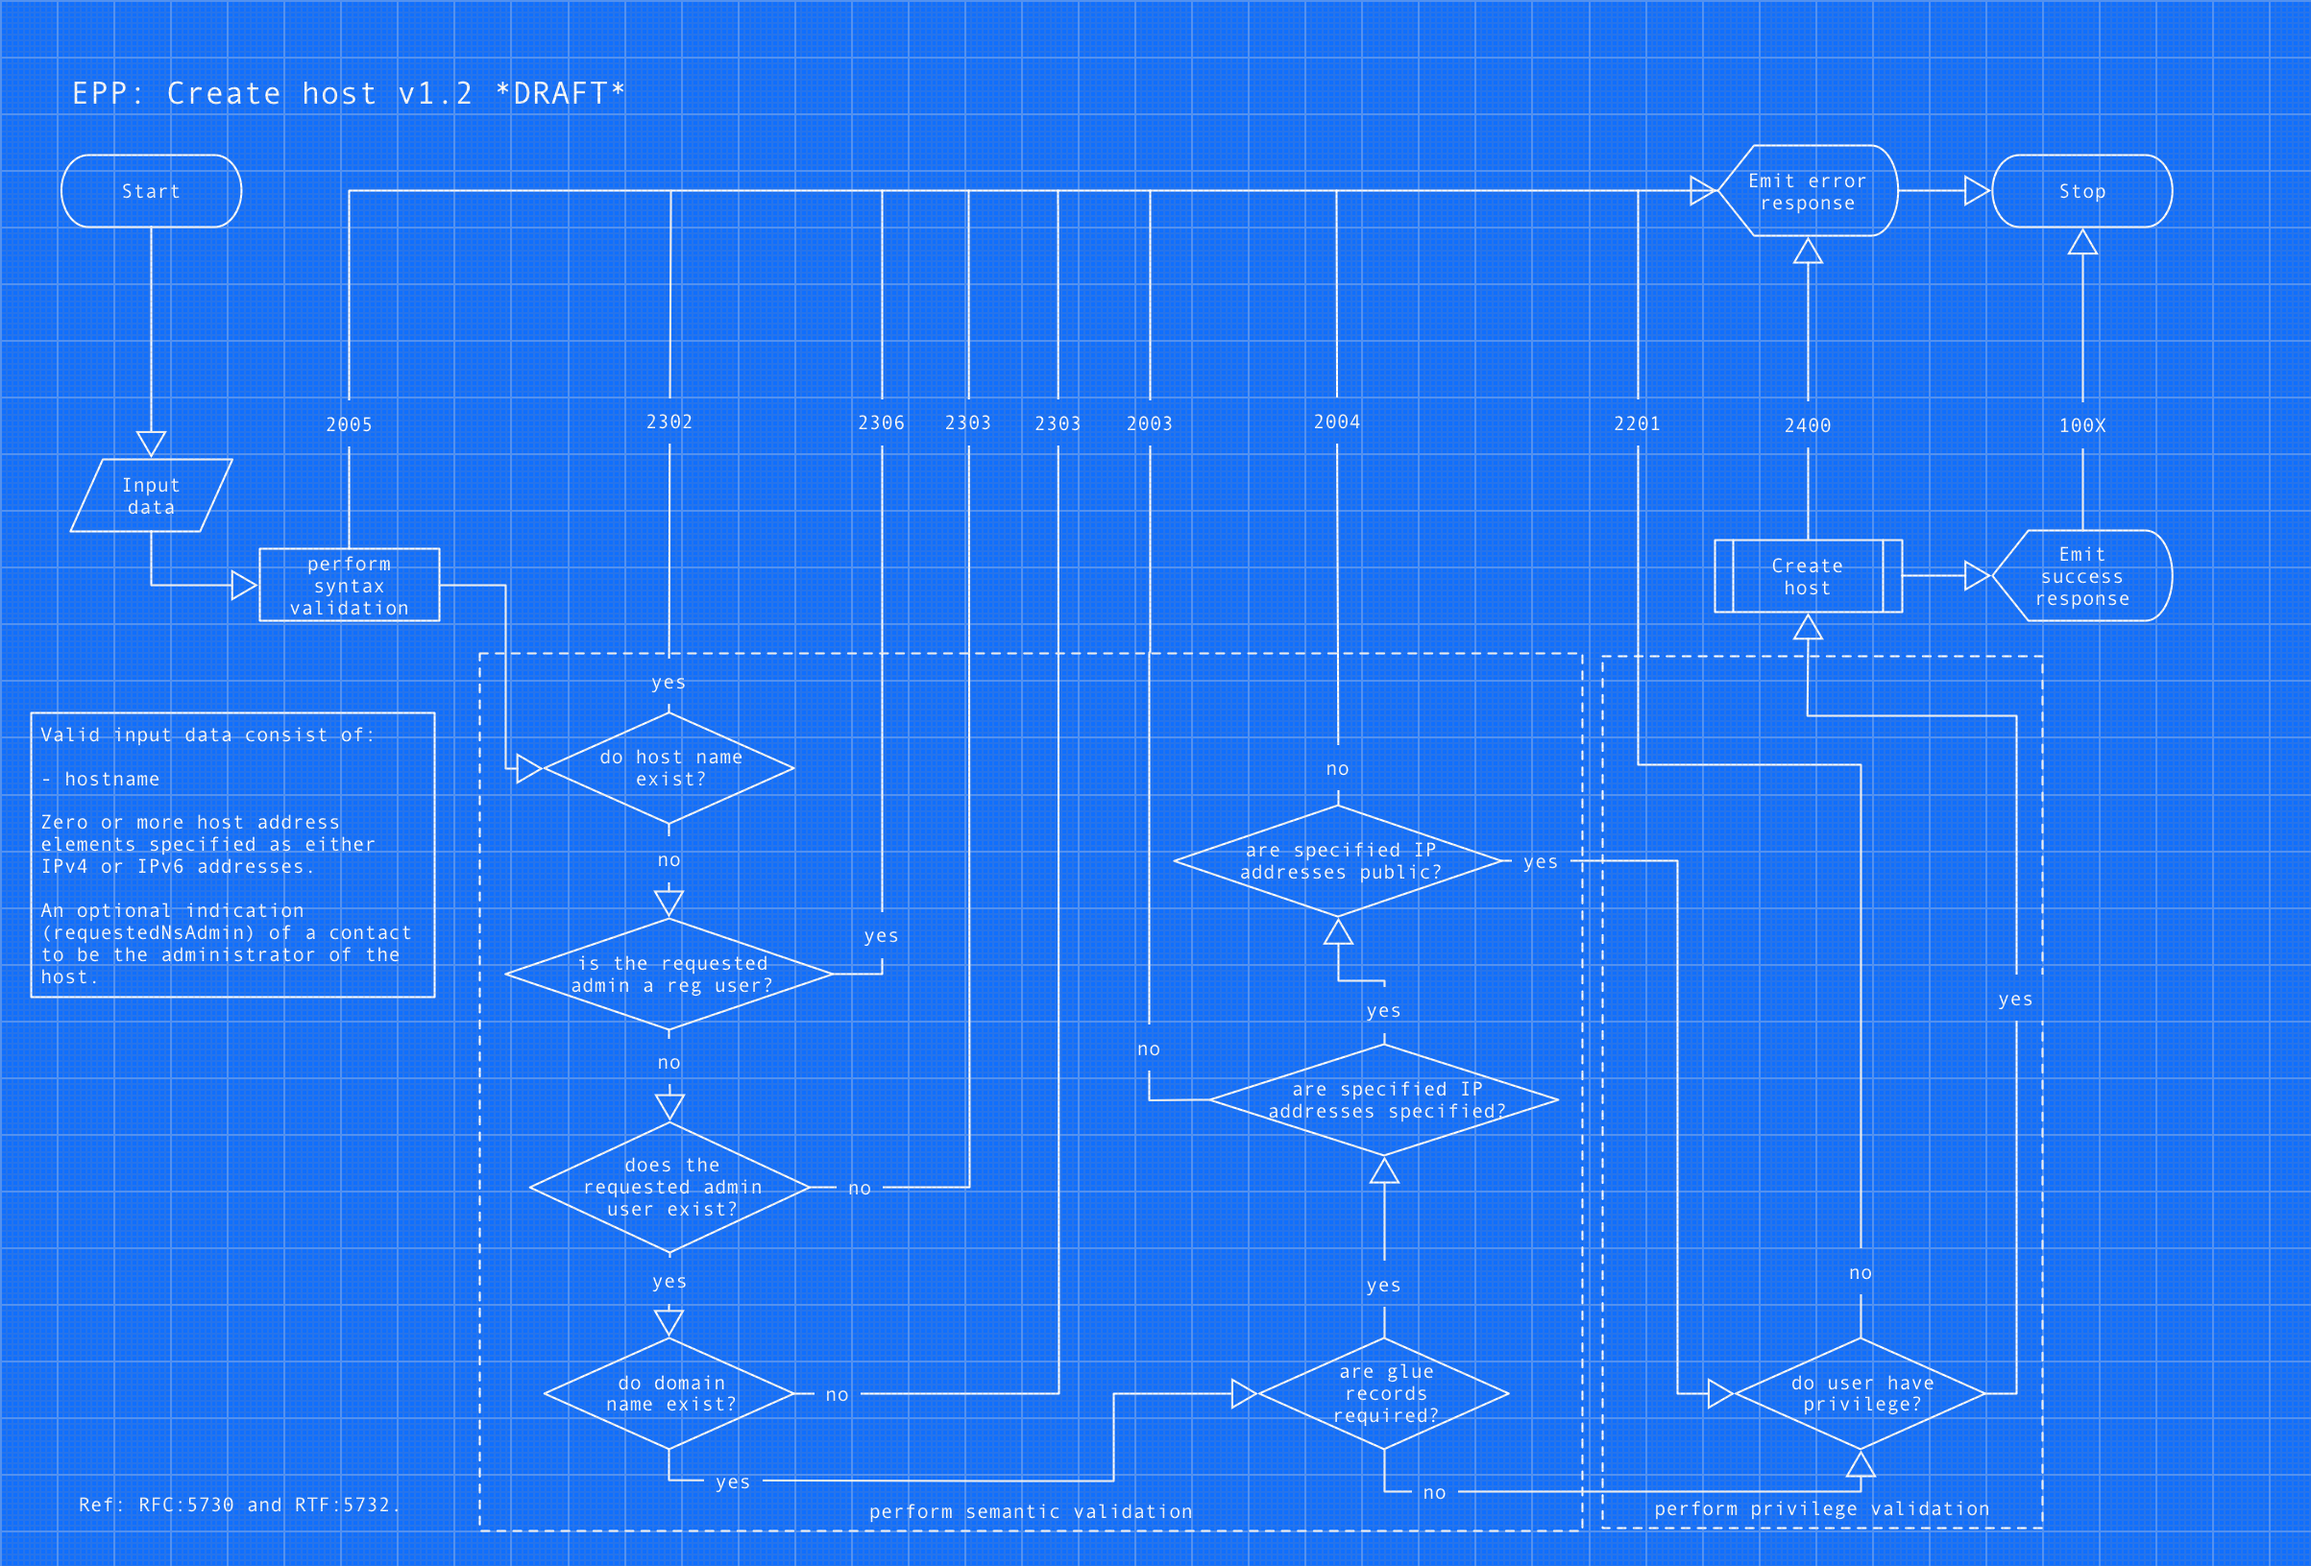
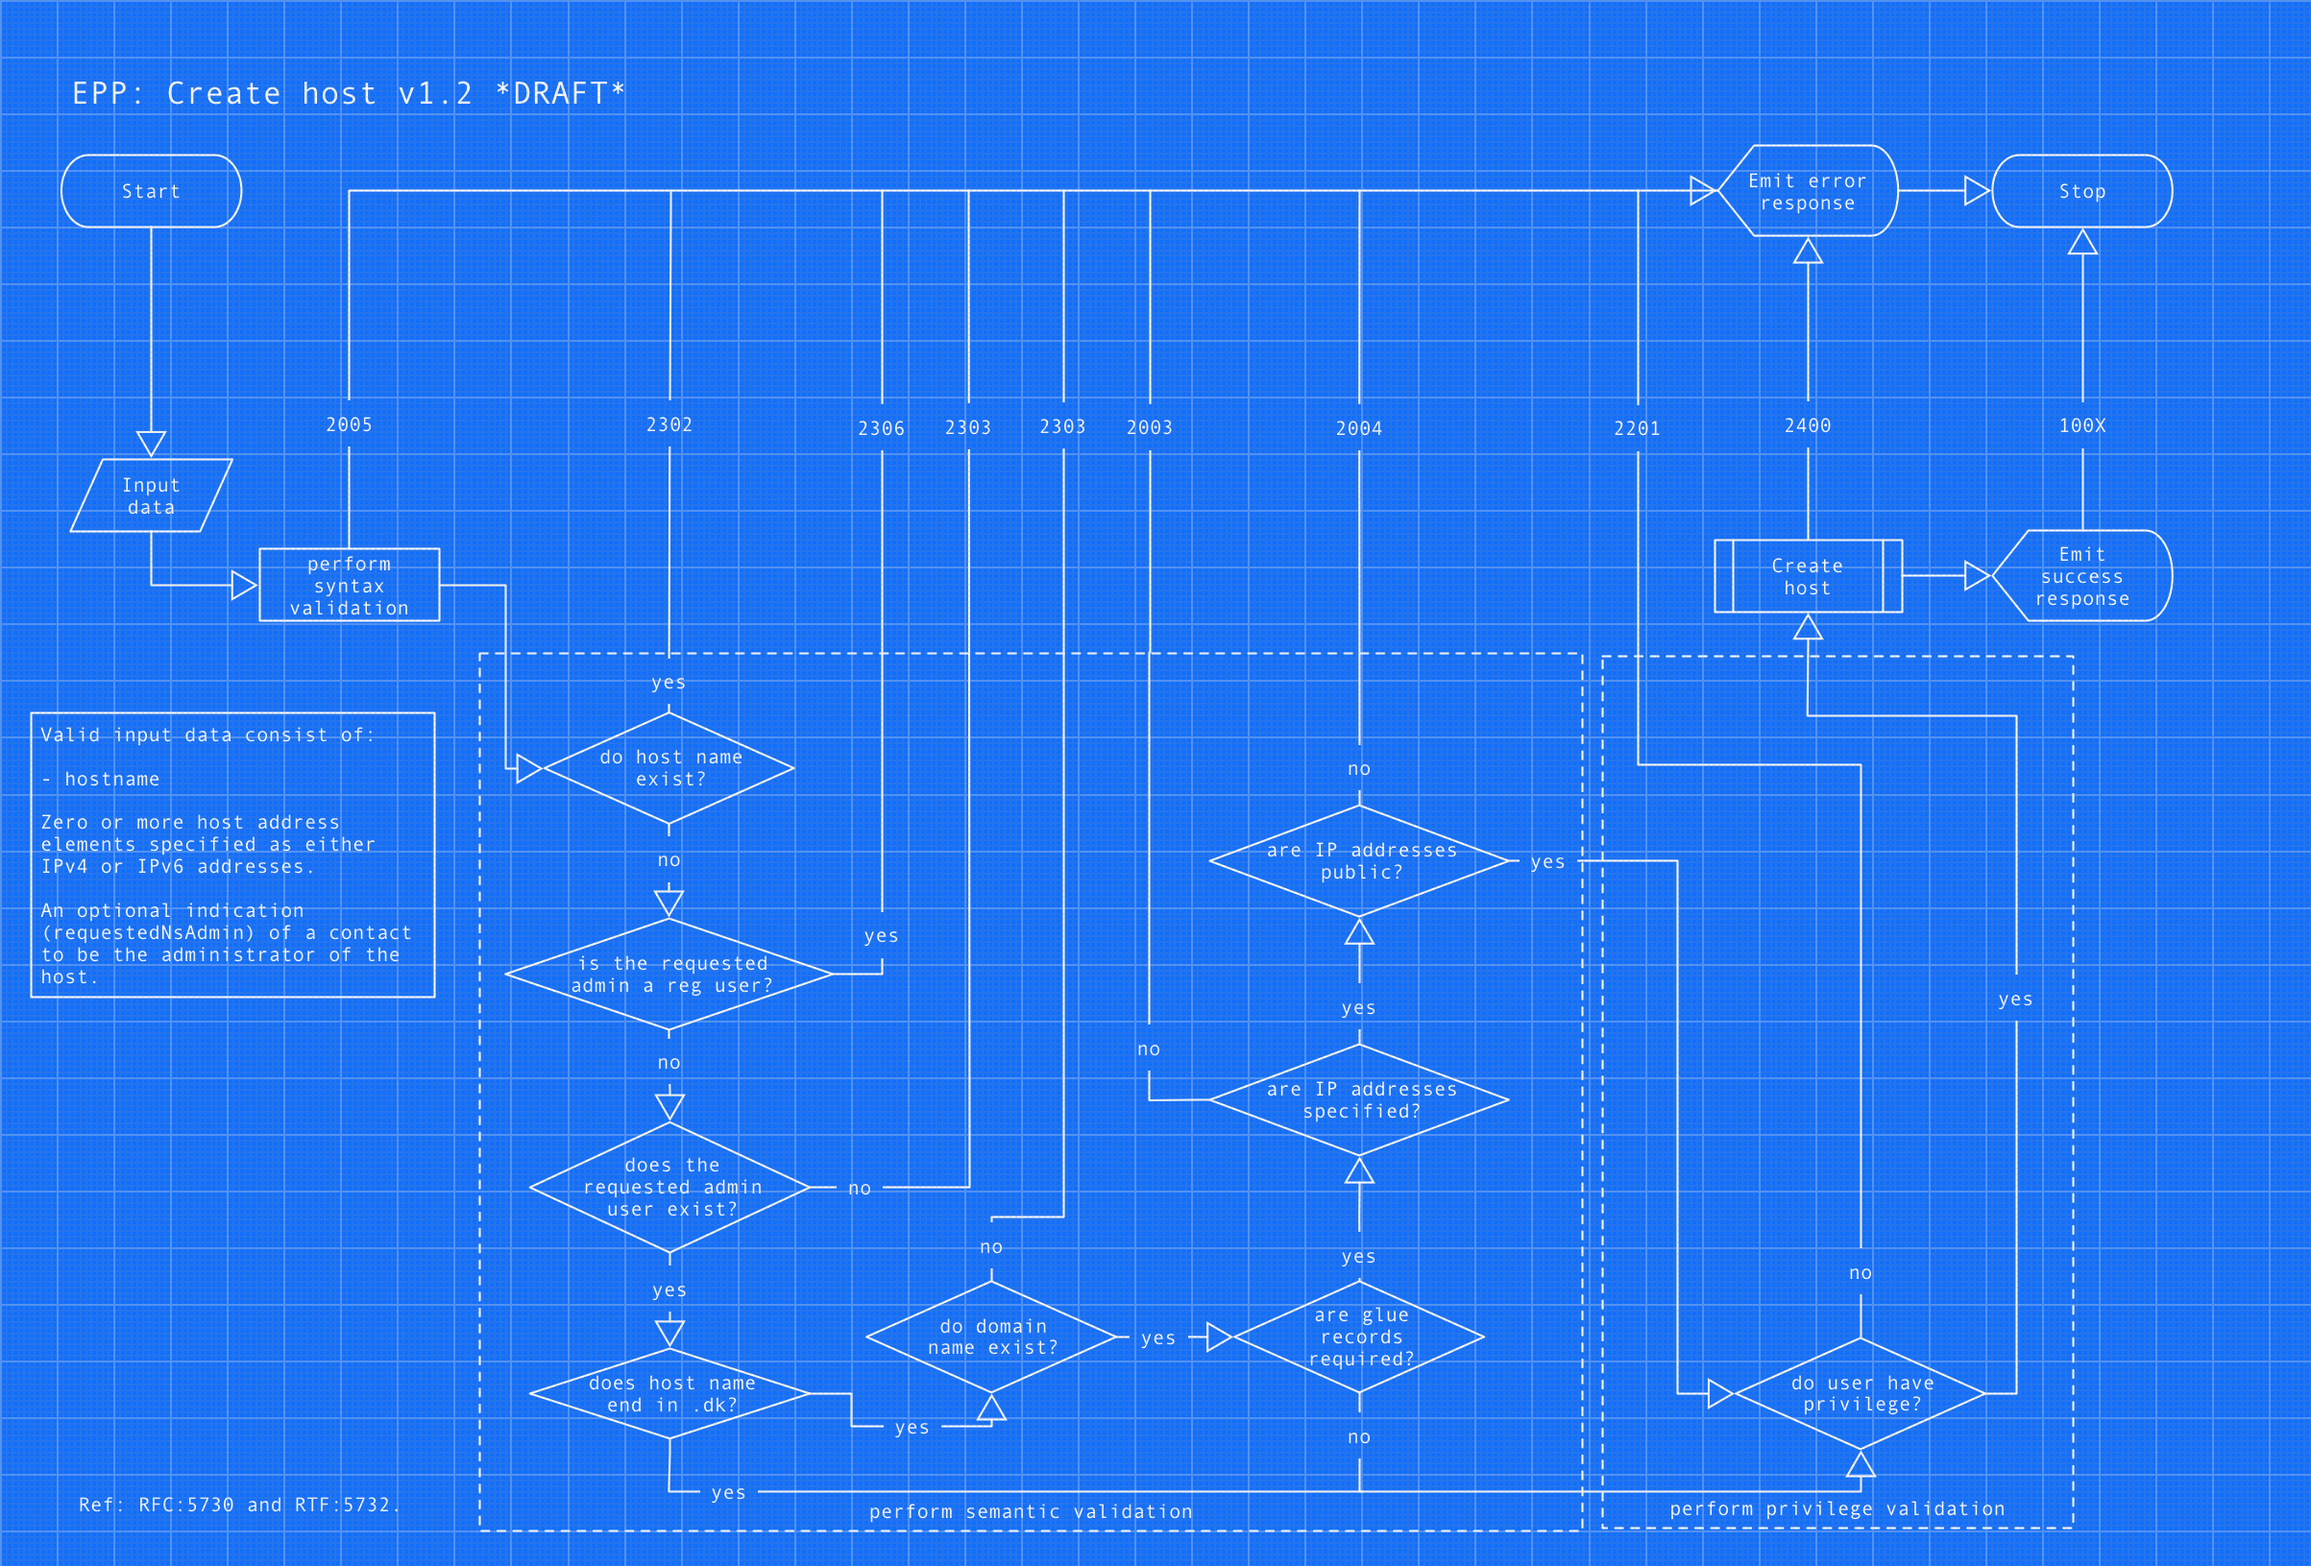
Updated diagram for create host

diff --git a/README.md b/README.md
@@ -989,8 +989,8 @@ The command can be used in two scenarios:
 | 2201 | If the authenticated user does not hold the privilege to update the specified host object |
 | 2302 | If the specified host object already exist |
 | 2303 | If the contact-id pointed to in `dkhm:requestedNsAdmin` points to a non-existing contact object |
+| 2303 | If the domain name for the host is not registered |
 | 2306 | If the specified nameserver administrator is a registrar account |
-| 2306 | If the domain name for the host ends is not registered |
 
 As for update domain `1001` holds higher precendence than `1000`, so if any of the sub-commands require additional review and are _pending_, the return code will be `1001`.
 
